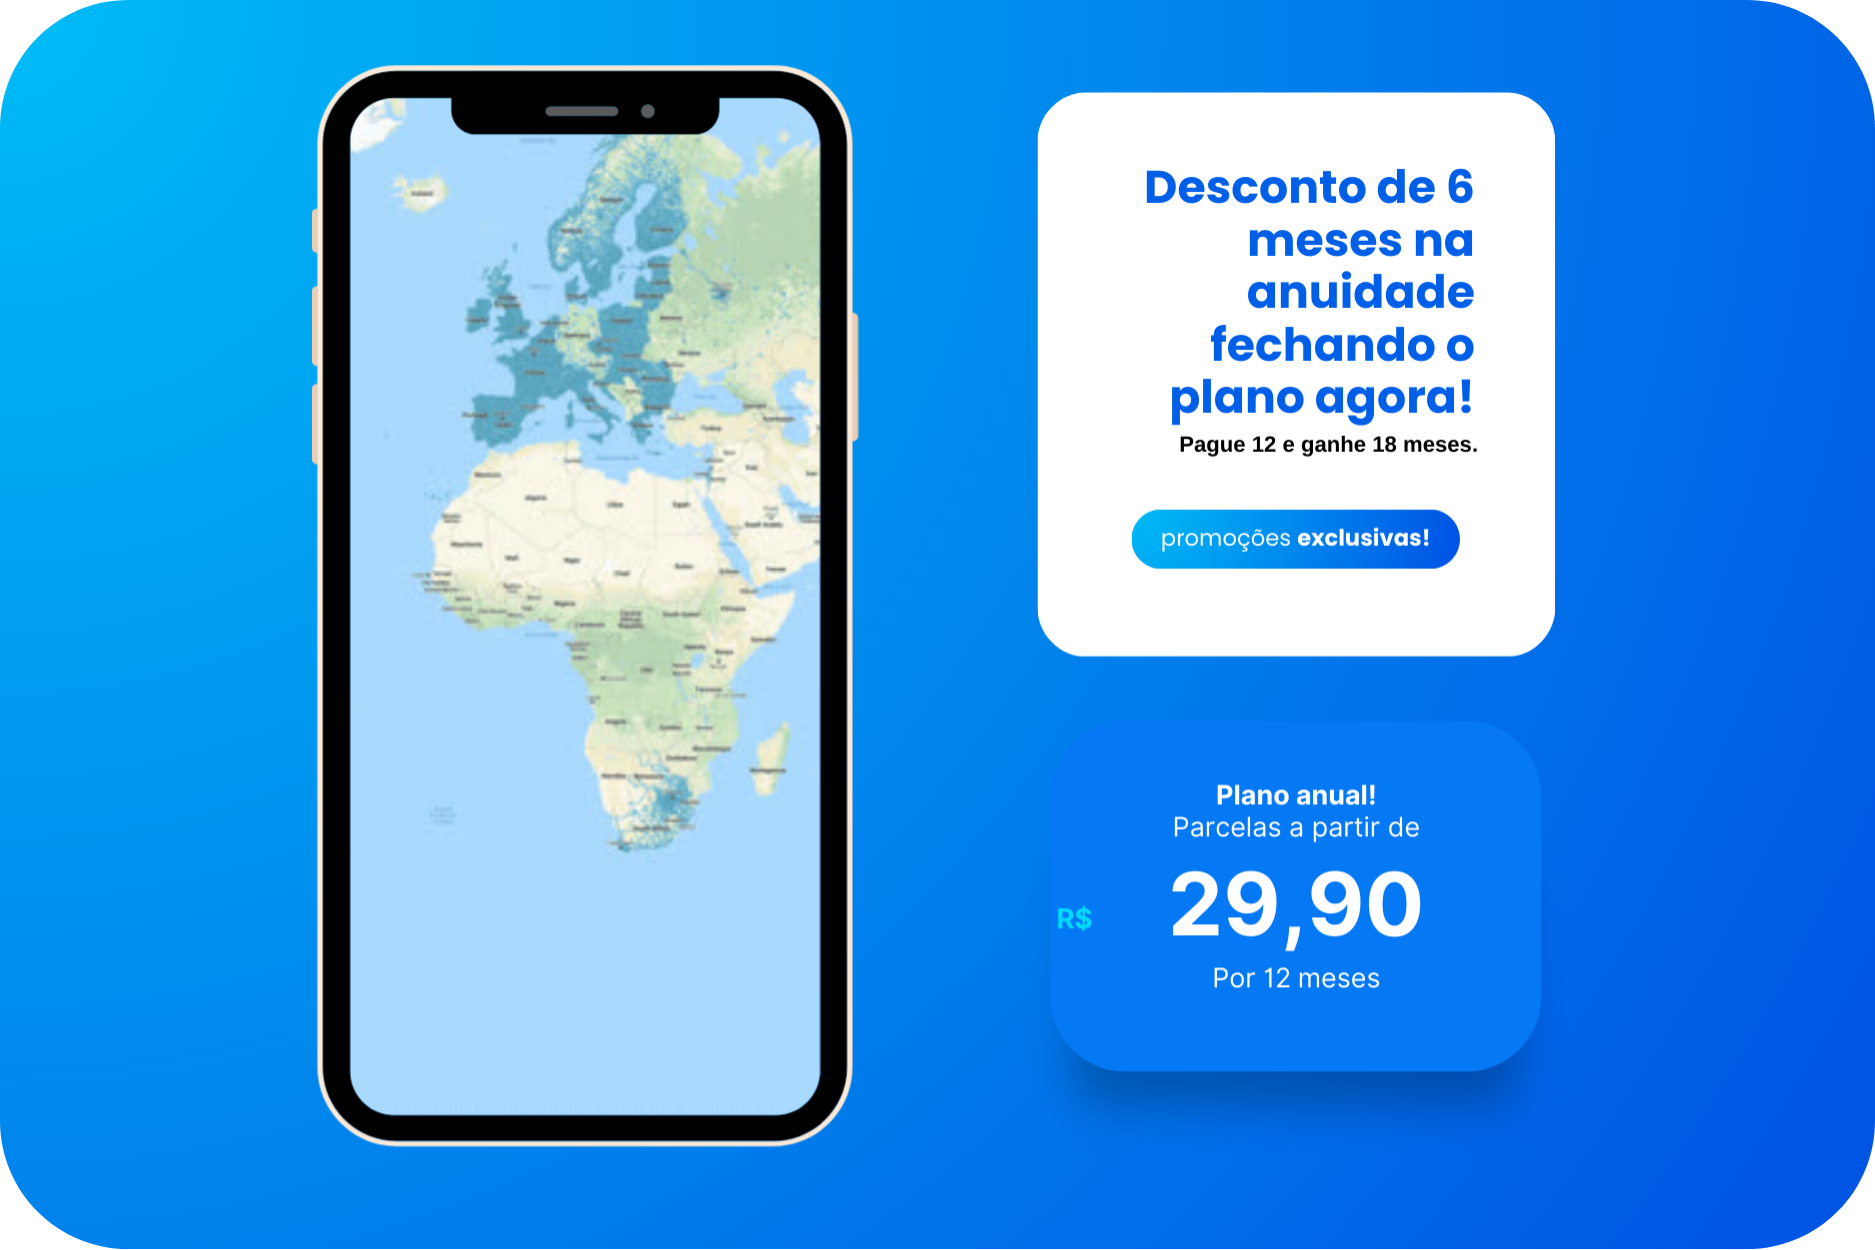
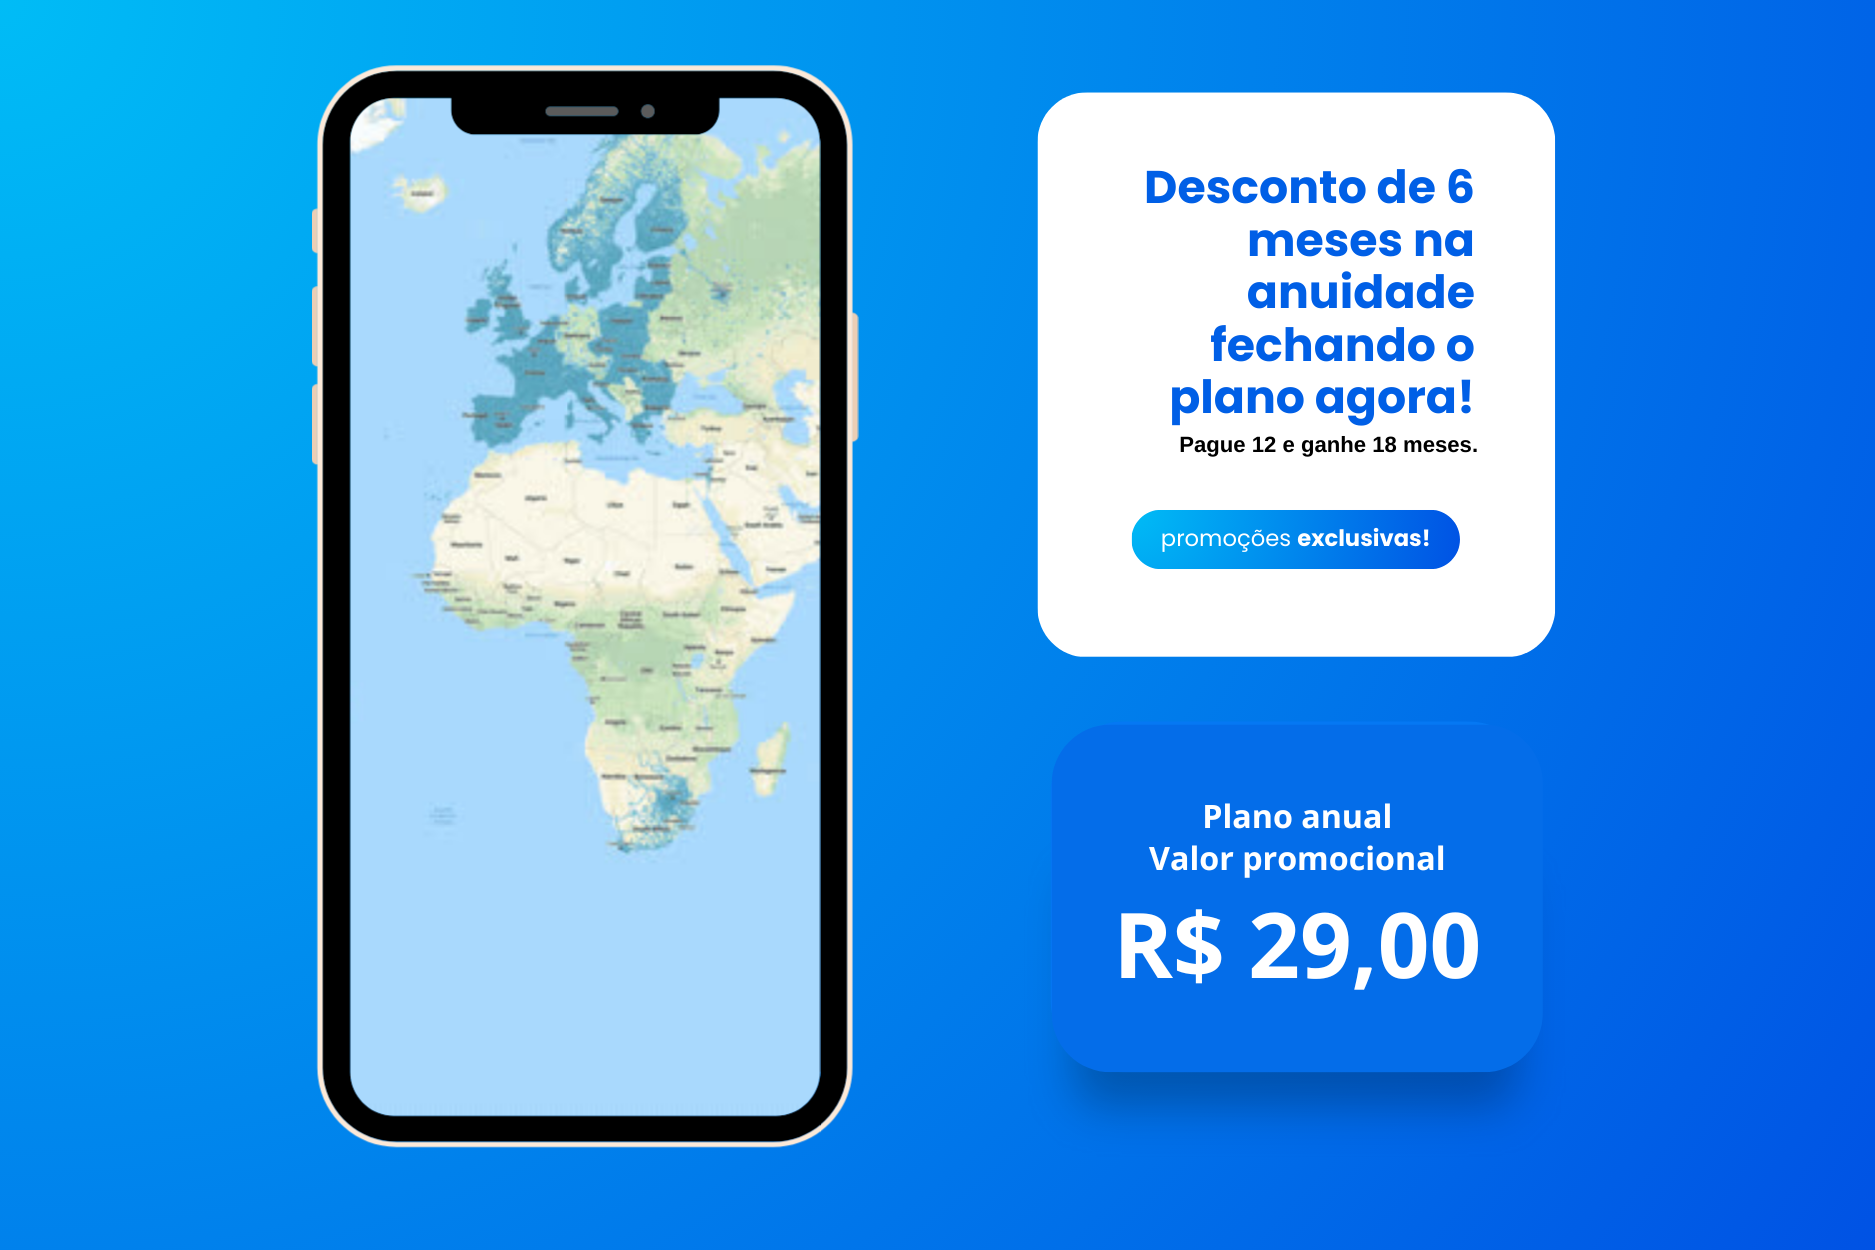
att

diff --git a/script.js b/script.js
@@ -80,40 +80,40 @@ setInterval(() => moveSlide(1), 5000);  // Troca de imagem automática a cada 5 
 
 
 
-// Verificar se já existe uma data final salva no localStorage
-let prazoFinal = localStorage.getItem("prazoFinal");
+  // Verificar se já existe uma data final salva no localStorage
+  let prazoFinal = localStorage.getItem("prazoFinal");
 
-if (!prazoFinal) {
-  // Caso não exista, definir o prazo para 30 dias a partir de agora e salvar no localStorage
-  prazoFinal = new Date();
-  prazoFinal.setDate(prazoFinal.getDate() + 30); // Alterado para 30 dias
-  localStorage.setItem("prazoFinal", prazoFinal);
-} else {
-  // Converter a string salva no localStorage de volta para um objeto Date
-  prazoFinal = new Date(prazoFinal);
-}
-
-function atualizarContagemRegressiva() {
-  const agora = new Date().getTime();
-  const diferenca = prazoFinal - agora;
-
-  if (diferenca > 0) {
-    const horas = Math.floor(diferenca / (1000 * 60 * 60));
-    const minutos = Math.floor((diferenca % (1000 * 60 * 60)) / (1000 * 60));
-    const segundos = Math.floor((diferenca % (1000 * 60)) / 1000);
-
-    document.getElementById("contador").innerHTML = 
-      `${horas} horas, ${minutos} minutos, ${segundos} segundos restantes`;
+  if (!prazoFinal) {
+    // Caso não exista, definir o prazo para 30 dias a partir de agora e salvar no localStorage
+    prazoFinal = new Date();
+    prazoFinal.setDate(prazoFinal.getDate() + 30); // Alterado para 30 dias
+    localStorage.setItem("prazoFinal", prazoFinal);
   } else {
-    document.getElementById("contador").innerHTML = "A contagem regressiva terminou!";
-    clearInterval(intervalo);
-    localStorage.removeItem("prazoFinal"); // Remover o prazo final quando terminar
+    // Converter a string salva no localStorage de volta para um objeto Date
+    prazoFinal = new Date(prazoFinal);
   }
-}
 
-// Atualizar a cada segundo
-const intervalo = setInterval(atualizarContagemRegressiva, 1000);
+  function atualizarContagemRegressiva() {
+    const agora = new Date().getTime();
+    const diferenca = prazoFinal - agora;
 
-// Inicializar a contagem assim que a página carregar
-atualizarContagemRegressiva();
+    if (diferenca > 0) {
+      const horas = Math.floor(diferenca / (1000 * 60 * 60));
+      const minutos = Math.floor((diferenca % (1000 * 60 * 60)) / (1000 * 60));
+      const segundos = Math.floor((diferenca % (1000 * 60)) / 1000);
+
+      document.getElementById("contador").innerHTML = 
+        `${horas} horas, ${minutos} minutos, ${segundos} segundos restantes`;
+    } else {
+      document.getElementById("contador").innerHTML = "A contagem regressiva terminou!";
+      clearInterval(intervalo);
+      localStorage.removeItem("prazoFinal"); // Remover o prazo final quando terminar
+    }
+  }
+
+  // Atualizar a cada segundo
+  const intervalo = setInterval(atualizarContagemRegressiva, 1000);
+
+  // Inicializar a contagem assim que a página carregar
+  atualizarContagemRegressiva();
 

diff --git a/index.html b/index.html
@@ -25,7 +25,7 @@
         <a href="#home">Início</a>  
         <a href="#sobre">Sobre</a>  
         <a href="#faca-parte">Faça parte</a>  
-        <a href="Area de login/index.html">Área do Cliente</a>  
+        <a href="Area de login/index.html"></a>  
       </div>   
     </div>
   </header>
@@ -154,8 +154,8 @@
       <label for="plano">Selecione seu Plano:</label>
       <select id="plano" name="plano" required style="width: 100%; padding: 10px; margin: 10px 0;">
           <option value="basico">Básico - R$ 49,90/mês após lançamento</option>
-          <option value="premium">Plano promocional reservando - R$ 29,90/mês - R$ 359,80 (12 meses) + 6 Meses grátis</option>
-          <option value="vip">Plano promocional reservando - R$ 27,90/mês - R$ 669,60 (24 meses) + 6 meses grátis</option>
+          <option value="premium">Plano promocional reservando - R$ 29,00/mês - R$ 348,00 (12 meses) + 6 Meses grátis</option>
+          <option value="vip">Plano promocional reservando - R$ 29,00/mês - R$ 696,60 (24 meses) + 12 meses grátis</option>
       </select>
 
       <label for="pagamento">Método de Pagamento:</label>
@@ -186,7 +186,8 @@
     <h2><mark>Reserve sua vaga!</mark></h2>
     <p>Junte-se a nós e transforme suas ideias em resultados reais. Clique no botão abaixo para começar!</p>
     <img src="img4.png" alt="Imagem inspiradora para participação" style="width: 100%; height: auto; margin: 20px 0;">
-    <a href="#inscricao" class="btn">FAÇA PARTE AGORA</a>
+    <a href="https://pay.kiwify.com.br/jItZUo1" class="btn">FAÇA PARTE AGORA PLANO ANUAL</a>
+    <a href="https://pay.kiwify.com.br/LJAyRPB" class="btn">FAÇA PARTE AGORA PLANO 2 ANOS</a>
 </section>
 
 
